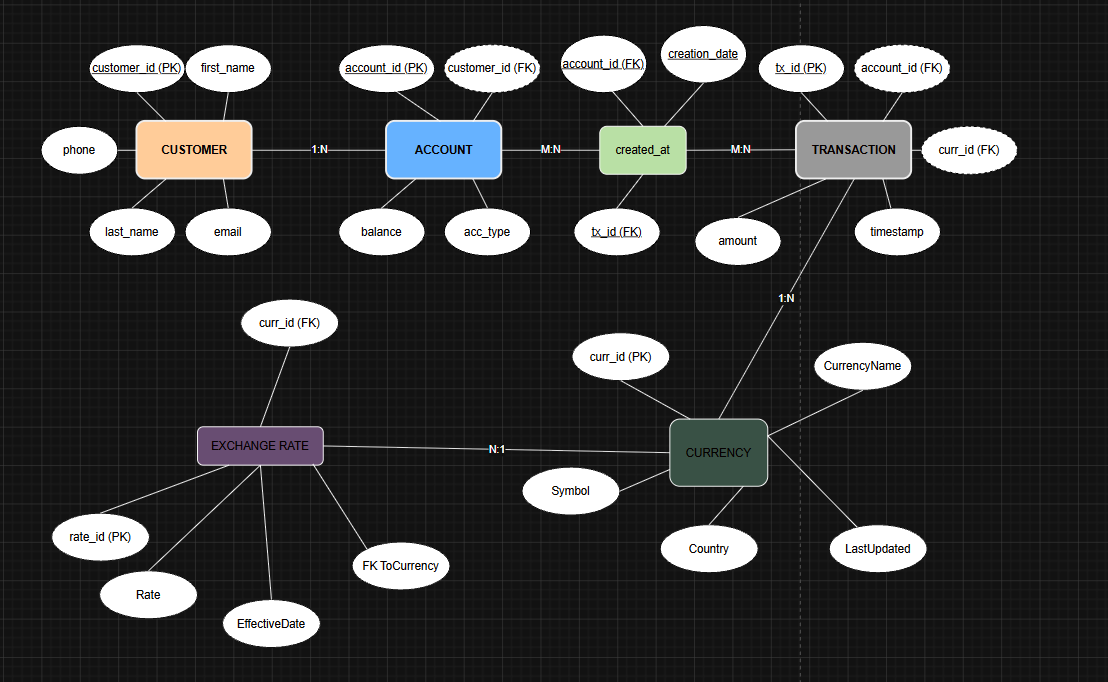
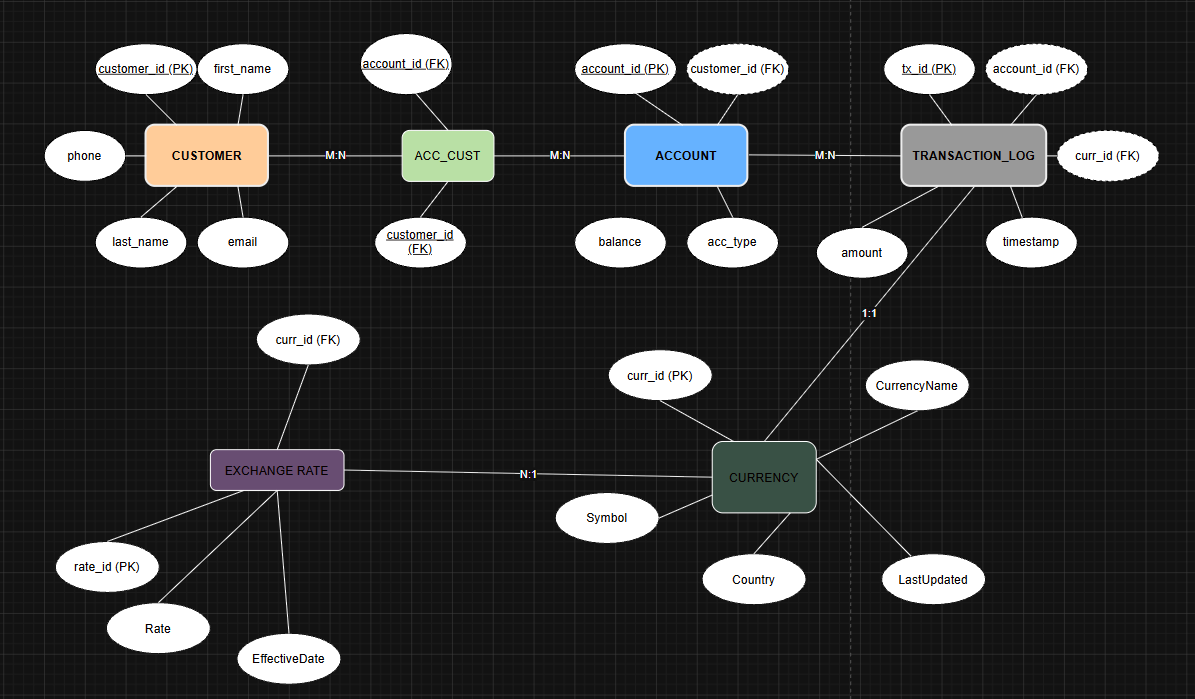
ER Diagram change

diff --git a/MSE800-PSD/Week3/Activity2/Readme.md b/MSE800-PSD/Week3/Activity2/Readme.md
@@ -1,146 +1,75 @@
-\# 💱 Money Exchange System – ER Diagram
+# 💱 Money Exchange System – ER Diagram
 
+## 📌 Project Overview
 
+This project presents an **Entity-Relationship (ER) Diagram** for a **Finance Money Exchange Software Application**. The system models how customers perform transactions involving different currencies, along with exchange rate tracking[cite: 1].
 
-\## 📌 Project Overview
+---
 
+## 🧩 Entities and Attributes
 
+### 1. CUSTOMER
 
-This project presents an \*\*Entity-Relationship (ER) Diagram\*\* for a \*\*Finance Money Exchange Software Application\*\*.
+* customer_id (PK)
+* first_name
+* last_name
+* email
+* phone
 
-The system models how customers perform transactions involving different currencies, along with exchange rate tracking.
+---
 
+### 2. ACCOUNT
 
+* account_id (PK)
+* customer_id (FK)
+* balance
+* acc_type
 
-\---
+---
 
+### 3. TRANSACTION_LOG
 
+* tx_id (PK)
+* account_id (FK)
+* curr_id (FK)
+* amount
+* timestamp
 
-\## 🧩 Entities and Attributes
+---
 
+### 4. CURRENCY
 
+* curr_id (PK)
+* CurrencyName
+* Symbol
+* Country
+* LastUpdated
 
-\### 1. CUSTOMER
+---
 
+### 5. EXCHANGE RATE
 
+* rate_id (PK)
+* curr_id (FK)
+* Rate
+* EffectiveDate
 
-\* \*\*customer\_id (PK)\*\*
+---
+### 6. ACC_CUST
 
-\* first\_name
+* account_id (FK)
+* customer_id (FK)
 
-\* last\_name
 
-\* email
 
-\* phone
 
+## 🔗 Relationships
 
+| Relationship | Type | Description |
+| :--- | :--- | :--- |
+| CUSTOMER ↔ ACCOUNT | M:N | Linked via the ACC_CUST associative entity. |
+| ACCOUNT ↔ TRANSACTION | 1:N | Tracks history across different accounts. |
+| TRANSACTION ↔ CURRENCY | 1:1 | Each transaction record is associated with one currency. |
+| EXCHANGE RATE ↔ CURRENCY | N:1 | Multiple rates can be defined for a single currency. |
 
-\---
-
-
-
-\### 2. ACCOUNT
-
-
-
-\* \*\*account\_id (PK)\*\*
-
-\* customer\_id (FK)
-
-\* balance
-
-\* acc\_type
-
-\* created\_at
-
-
-
-\---
-
-
-
-\### 3. TRANSACTION
-
-
-
-\* \*\*tx\_id (PK)\*\*
-
-\* account\_id (FK)
-
-\* amount
-
-\* timestamp
-
-\* curr\_id (FK)
-
-
-
-\---
-
-
-
-\### 4. CURRENCY
-
-
-
-\* \*\*curr\_id (PK)\*\*
-
-\* CurrencyName
-
-\* Symbol
-
-\* Country
-
-\* LastUpdated
-
-
-
-\---
-
-
-
-\### 5. EXCHANGE RATE
-
-
-
-\* \*\*rate\_id (PK)\*\*
-
-\* curr\_id (FK) \*(From Currency)\*
-
-\* ToCurrency (FK)
-
-\* Rate
-
-\* EffectiveDate
-
-
-
-\---
-
-
-
-\## 🔗 Relationships
-
-
-
-| Relationship                            | Type  | Description                                      |
-
-| --------------------------------------- | ----- | ------------------------------------------------ |
-
-| CUSTOMER → ACCOUNT                      | 1 : N | One customer can have multiple accounts          |
-
-| ACCOUNT → TRANSACTION                   | 1 : N | One account can have many transactions           |
-
-| TRANSACTION → CURRENCY                  | N : 1 | Each transaction uses one currency               |
-
-| CURRENCY → EXCHANGE RATE                | 1 : N | One currency can have multiple exchange rates    |
-
-| CURRENCY ↔ CURRENCY (via Exchange Rate) | M : N | Currency conversion between different currencies |
-
-
-
-\---
-
-
-
+---
